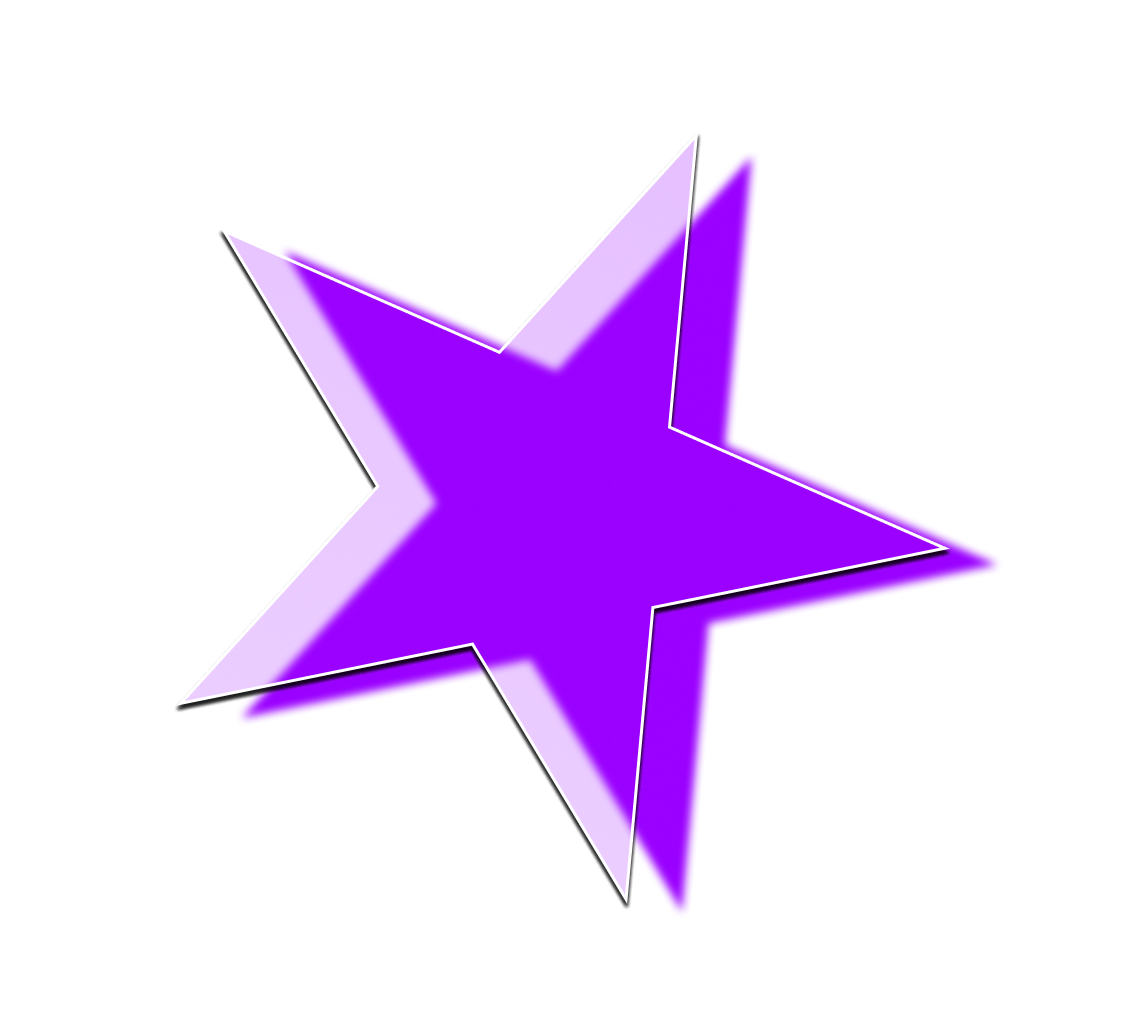
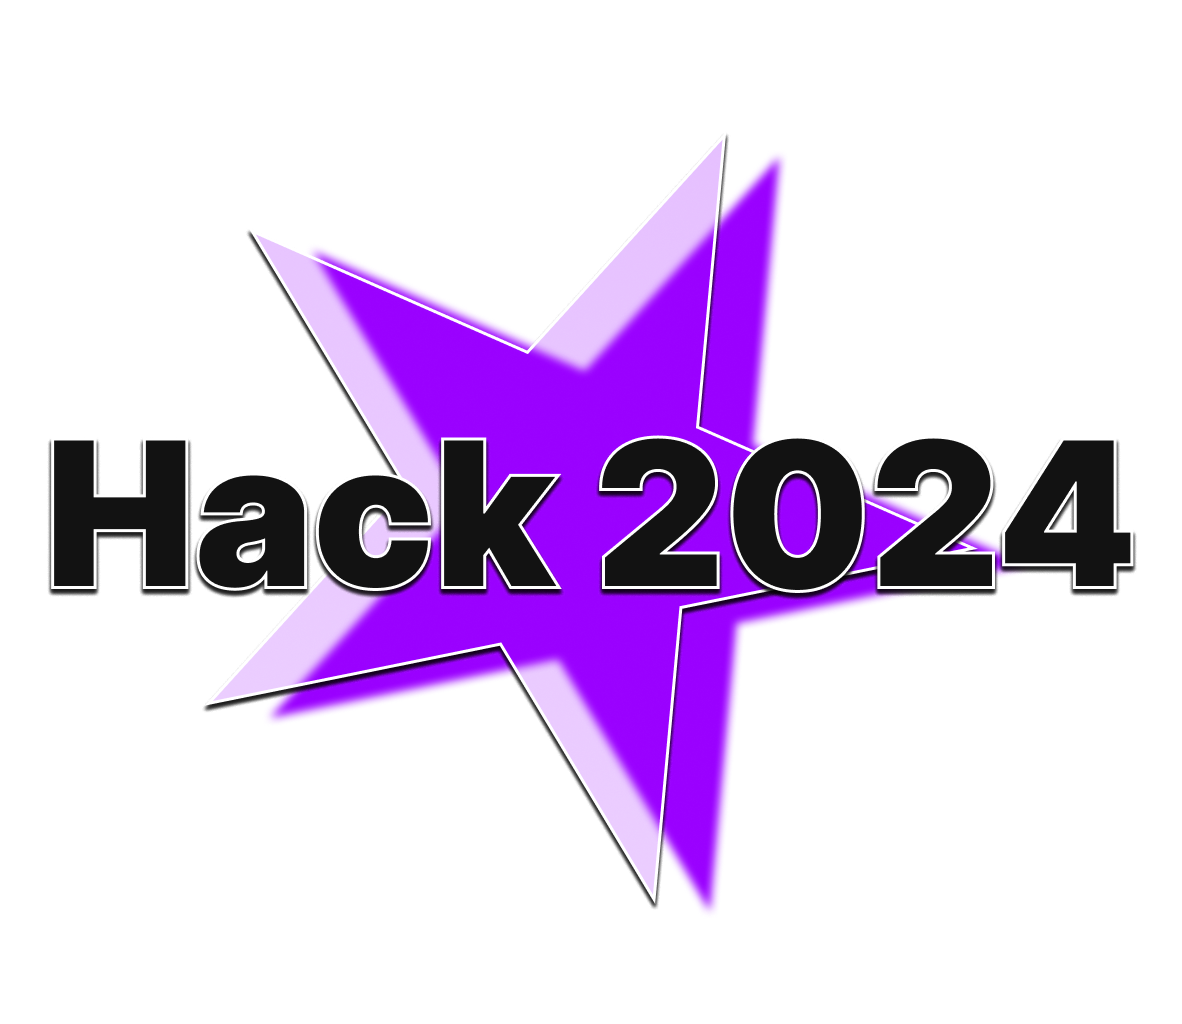
made everything cooler
yeeeeeee

diff --git a/SHL-2024/src/styles/Landing.css b/SHL-2024/src/styles/Landing.css
@@ -1,94 +1,87 @@
 /* Landing.css */
 
 .container {
-    position: relative;
-  }
-  
+  position: relative;
+  max-height: 100vh;
+  max-width: 100vw;
+}
+
+.navbar {
+  font-family: 'Inter', sans-serif;
+  color: #FFF;
+  font-size: 5vh;
+  font-style: normal;
+  font-weight: 700;
+  line-height: normal;
+  display: inline-block;
+  margin-right: auto;
+}
+
+.navbar-secondary {
+  color: #FFF;
+  font-family: 'Inter', sans-serif;
+  font-size: 4vh;
+  font-style: normal;
+  font-weight: 700;
+  line-height: normal;
+}
+
+.navbar-container {
+  display: flex;
+  justify-content: space-between;
+  align-items: center;
+  gap: 2vw;
+  padding: 0 1.6vw;
+}
+
+.navbar-links {
+  display: flex;
+  gap: 2vw;
+}
+
+.image-container {
+  text-align: center;
+}
+
+.image {
+  display: block;
+  margin-left: auto;
+  margin-right: auto;
+  max-width: 100%;
+  pointer-events: none;
+  user-select: none;
+}
+
+.centered-content {
+  display: flex;
+  justify-content: center;
+  align-items: center;
+  height: 100vh;
+}
+
+@media only screen and (max-width: 768px) {
   .navbar {
-    font-family: 'Inter', sans-serif;
-    color: #FFF;
-    font-size: 5vh;
-    font-style: normal;
-    font-weight: 700;
-    line-height: normal;
-    margin-left: 1.6vw;
-    display: inline-block;
-  }
-  
-  .navbar-secondary {
-    color: #FFF;
-    font-family: 'Inter', sans-serif;
-    font-size: 4vh;
-    font-style: normal;
-    font-weight: 700;
-    line-height: normal;
-  }
-  
-  .home {
-    margin-left: 30vw;
-  }
-  
-  .navbar-container {
-    display: flex;
-    align-items: center;
-  }
-  
-  .info {
-    margin-left: 2vw;
-  }
-  
-  .image-container {
-    position: relative;
-    text-align: center;
-  }
-  
-  .image {
-    display: block;
-    margin-left: auto;
-    margin-right: auto;
-    max-width: 100%;
-  }
-  
-  .SHL {
-    position: absolute;
-    top: 50%;
-    left: 50%;
-    transform: translate(-50%, -100%);
-    color: #121212;
-    text-align: center;
-    text-shadow: 0px 4px 4px rgba(0, 0, 0, 0.25);
-    font-family: Inter;
-    font-size: 20vh;
-    font-style: normal;
-    font-weight: 900;
-    line-height: normal;
     white-space: nowrap;
-    text-shadow: -3px -3px 0 white, 3px -3px 0 white, -3px 3px 0 white, 3px 3px 0 white, 0px 0px 5px rgba(0, 0, 0, 0.25);
+    overflow: hidden;
+    text-overflow: ellipsis;
+    max-width: 100%;
+    font-size: 10vw;
+    text-align: center;
   }
 
-  .dotted {
-    color: white;
+  .navbar-container {
+    flex-wrap: nowrap;
+    justify-content: center;
   }
-  
-  
-  
-  @media only screen and (max-width: 768px) {
-    .navbar {
-      white-space: nowrap;
-      overflow: hidden;
-      text-overflow: ellipsis;
-      max-width: 100%;
-      font-size: 10vw;
-      text-align: center;
-    }
-  
-    .navbar-container {
-      flex-wrap: nowrap;
-    }
-  
-    .home,
-    .info {
-      display: none;
-    }
+
+  .home,
+  .info {
+    display: none;
   }
-  
+
+  .SHL {
+    font-size: 15vw;
+    top: 60%;
+    left: 50%;
+  }
+}

diff --git a/SHL-2024/src/components/Landing.tsx b/SHL-2024/src/components/Landing.tsx
@@ -3,22 +3,25 @@ import "../styles/Landing.css";
 function Landing() {
   return (
     <>
-      <div className="container">
-        <div className="navbar-container">
-          <h1 className="navbar">Star Hack Alliance</h1>
+      <div className="navbar-container">
+        <h1 className="navbar">Star Hack Alliance</h1>
+        <div className="navbar-links">
           <p className="navbar-secondary home">Home</p>
           <p className="navbar-secondary info">Info</p>
           <p className="navbar-secondary info">Rankings</p>
           <p className="navbar-secondary info">Partner</p>
-          <p className="navbar-secondary info">Events</p>
+          <p className="navbar-secondary info events">Events</p>
         </div>
-        <div className="image-container">
-          <img src="/Star.png" alt="Star" className="image" />
-          <h1 className="SHL">Hack 2024</h1>
+      </div>
+      <div className="container">
+        <div className="centered-content">
+          <div className="image-container">
+            <img src="/Star.png" alt="Star" className="image" />
+          </div>
         </div>
-        <hr className="dotted" />
       </div>
     </>
   );
 }
+
 export default Landing;

diff --git a/SHL-2024/src/components/Vague.tsx b/SHL-2024/src/components/Vague.tsx
@@ -1,0 +1,45 @@
+import "../styles/Vague.css";
+import { useEffect, useRef } from "react";
+import useScrollSnap from "react-use-scroll-snap";
+import ScrollReveal from "scrollreveal";
+
+function Vague() {
+  const scrollRef = useRef(null);
+  useScrollSnap({ ref: scrollRef, duration: 20 });
+
+  useEffect(() => {
+    const scrollReveal = ScrollReveal();
+
+    scrollReveal.reveal(".color-container", {
+      origin: "bottom",
+      distance: "20px",
+      duration: 1000,
+      delay: 200,
+      opacity: 0,
+      easing: "ease-in-out",
+      reset: true,
+    });
+  }, []);
+
+  return (
+    <div className="vague-container" ref={scrollRef}>
+      <div className="color-container">
+        <div className="text-overlay">
+          <div className="container">
+            <div className="text-container">
+              <h1 className="SHL">Star Hack League</h1>
+              <p className="text">
+                is dedicated to advancing <br />
+                education and fostering <br />
+                competitive growth among <br />
+                students
+              </p>
+            </div>
+          </div>
+        </div>
+      </div>
+    </div>
+  );
+}
+
+export default Vague;

diff --git a/SHL-2024/src/styles/Vague.css b/SHL-2024/src/styles/Vague.css
@@ -1,0 +1,45 @@
+.vague-container {
+    height: 100vh;
+    display: flex;
+    justify-content: center;
+    align-items: center;
+    background-color: black;
+  }
+  
+  .color-container {
+    position: relative;
+    height: 100vh;
+    width: 100vw;
+    background-color: #b84cff;
+  }
+  
+  .text-overlay {
+    position: absolute;
+    top: 50%;
+    left: 50%;
+    transform: translate(-50%, -50%);
+    text-align: center;
+    width: 100%;
+  }
+  
+  .container {
+    text-align: center;
+  }
+  
+  .SHL {
+    color: #fff;
+    font-family: 'Inter', sans-serif;
+    font-size: 10vh;
+    font-style: normal;
+    font-weight: 900;
+    line-height: normal;
+  }
+  
+  .text {
+    color: #fff;
+    font-family: 'Inter', sans-serif;
+    font-size: 3.7vh;
+    font-style: normal;
+    font-weight: 900;
+    line-height: normal;
+  }

diff --git a/SHL-2024/index.html b/SHL-2024/index.html
@@ -4,7 +4,7 @@
     <meta charset="UTF-8" />
     <link rel="icon" href="/favicon.ico" />
     <meta name="viewport" content="width=device-width, initial-scale=1.0" />
-    <title>Star Hack 2023</title>
+    <title>Star Hack 2024</title>
   </head>
   <body>
     <div id="root"></div>

diff --git a/SHL-2024/src/App.tsx b/SHL-2024/src/App.tsx
@@ -1,9 +1,11 @@
 import Landing from "./components/Landing.tsx";
+import Vague from "./components/Vague.tsx";
 
 function App() {
   return (
     <>
       <Landing />
+      <Vague />
     </>
   );
 }
